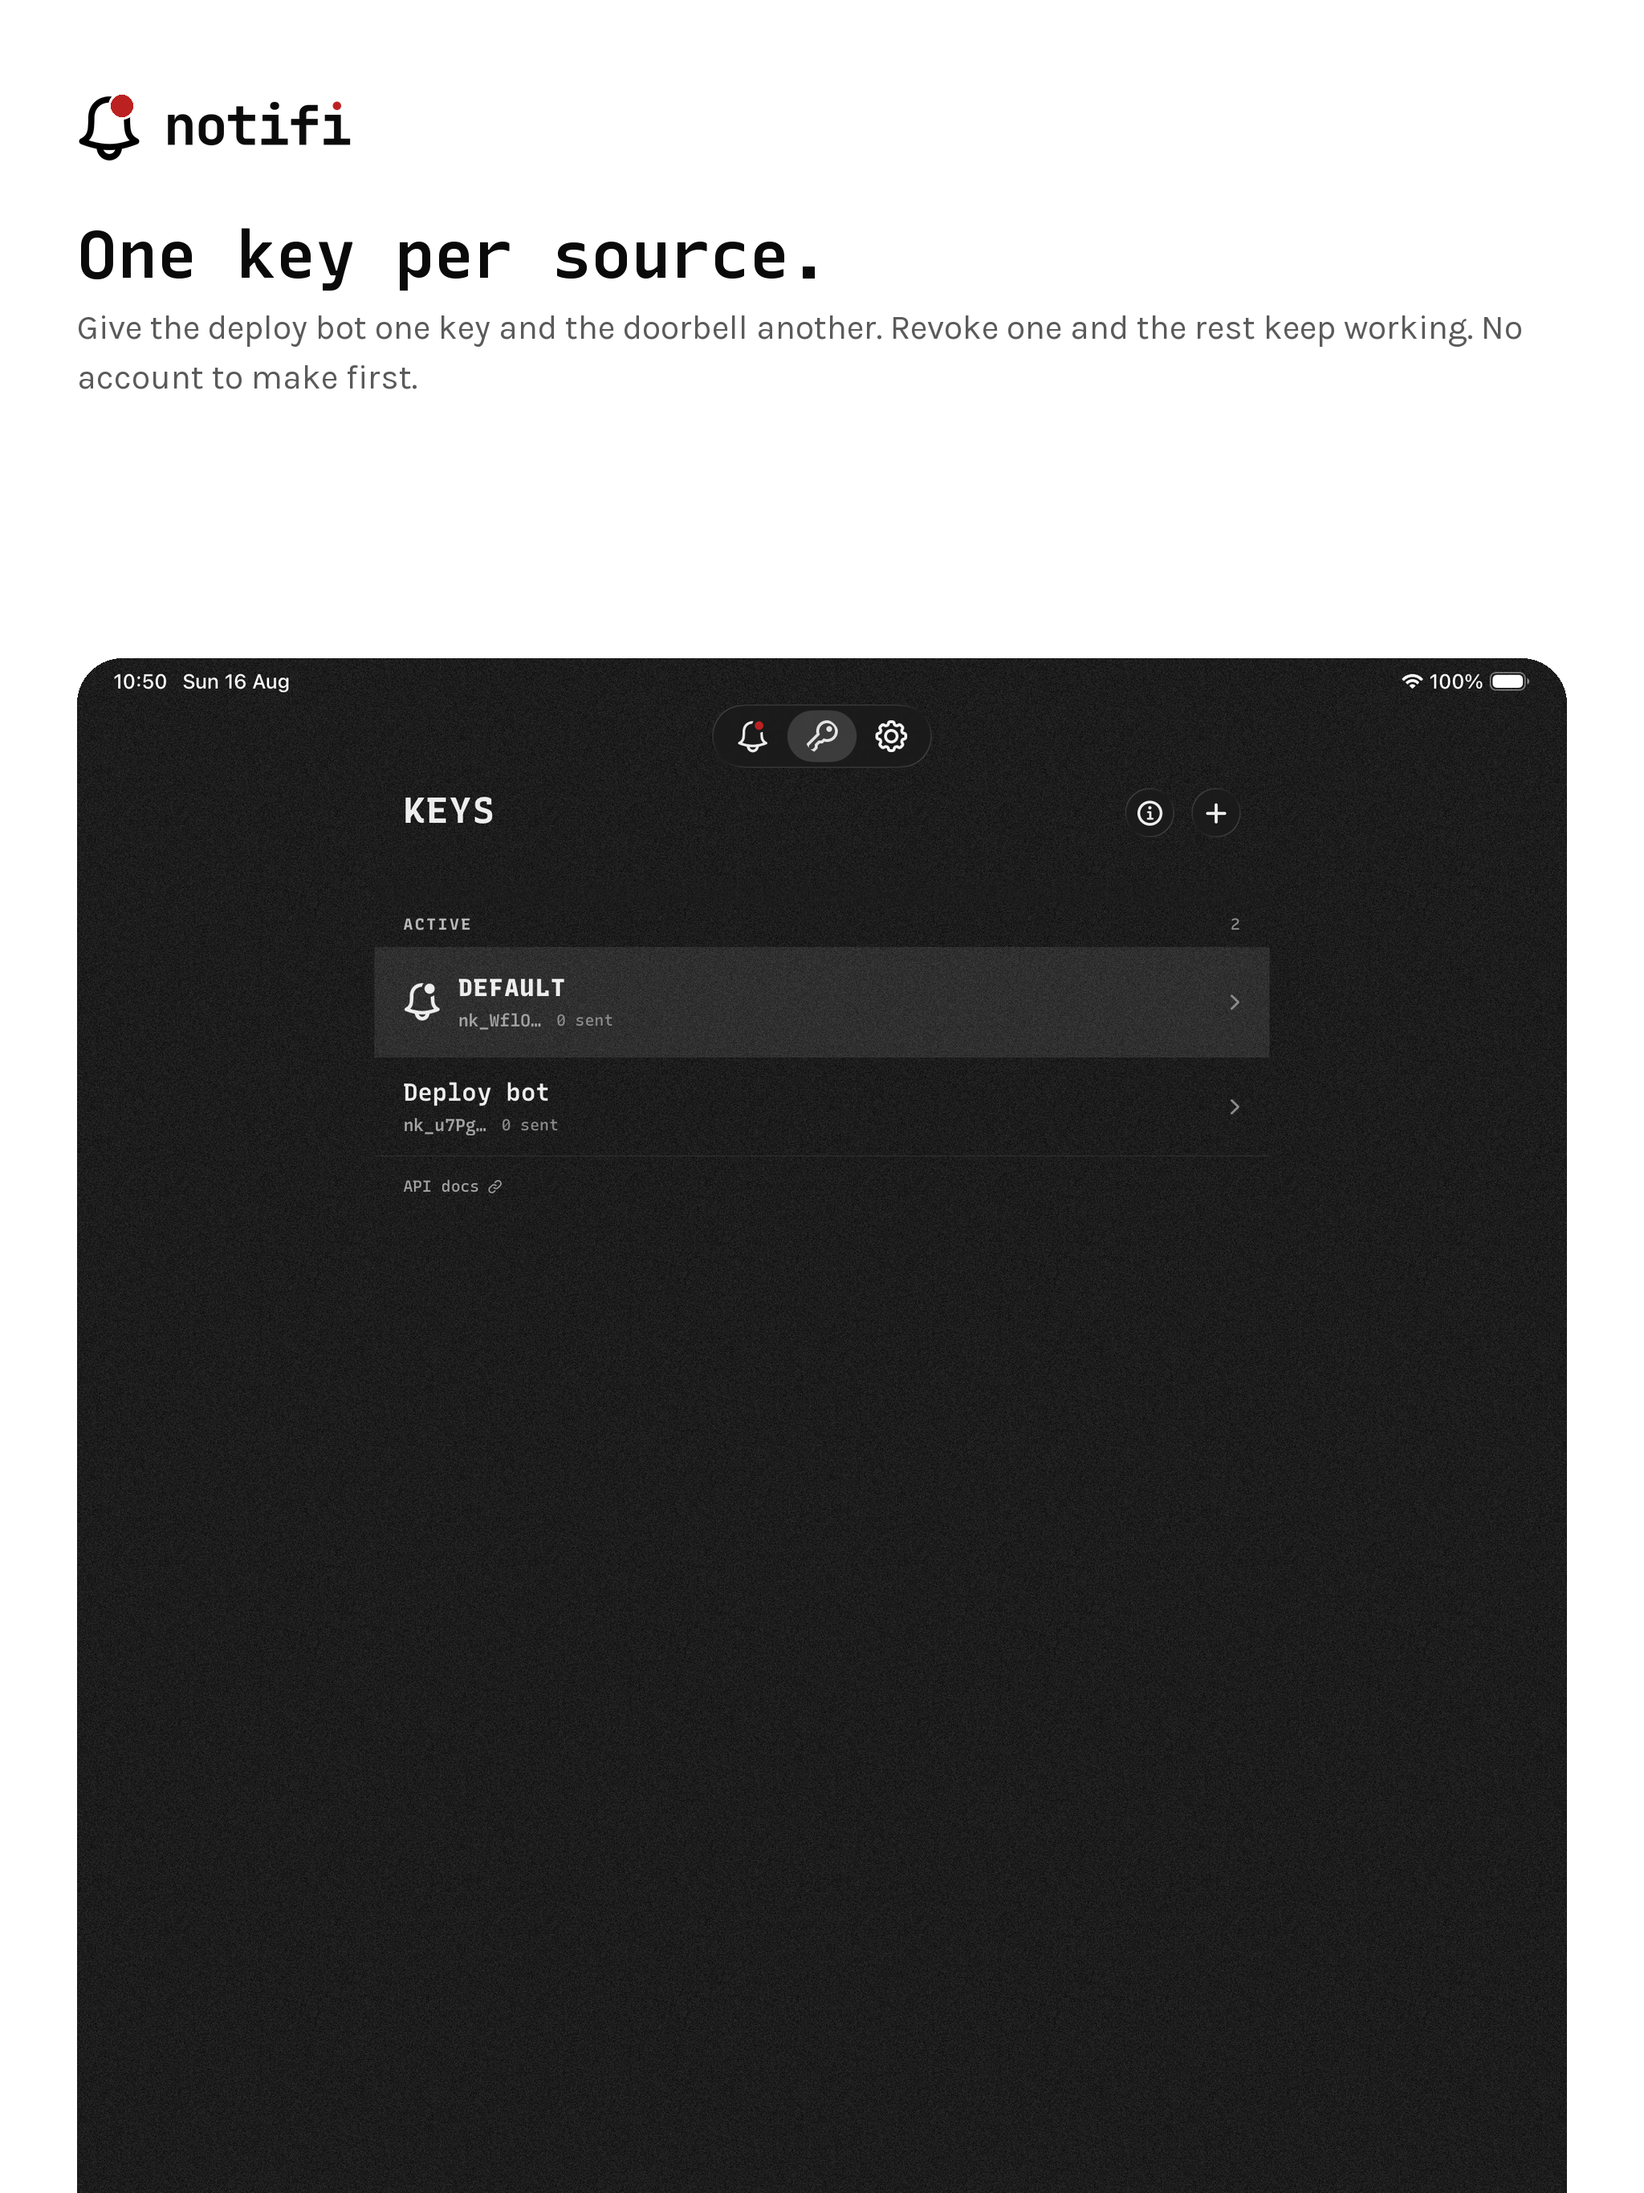
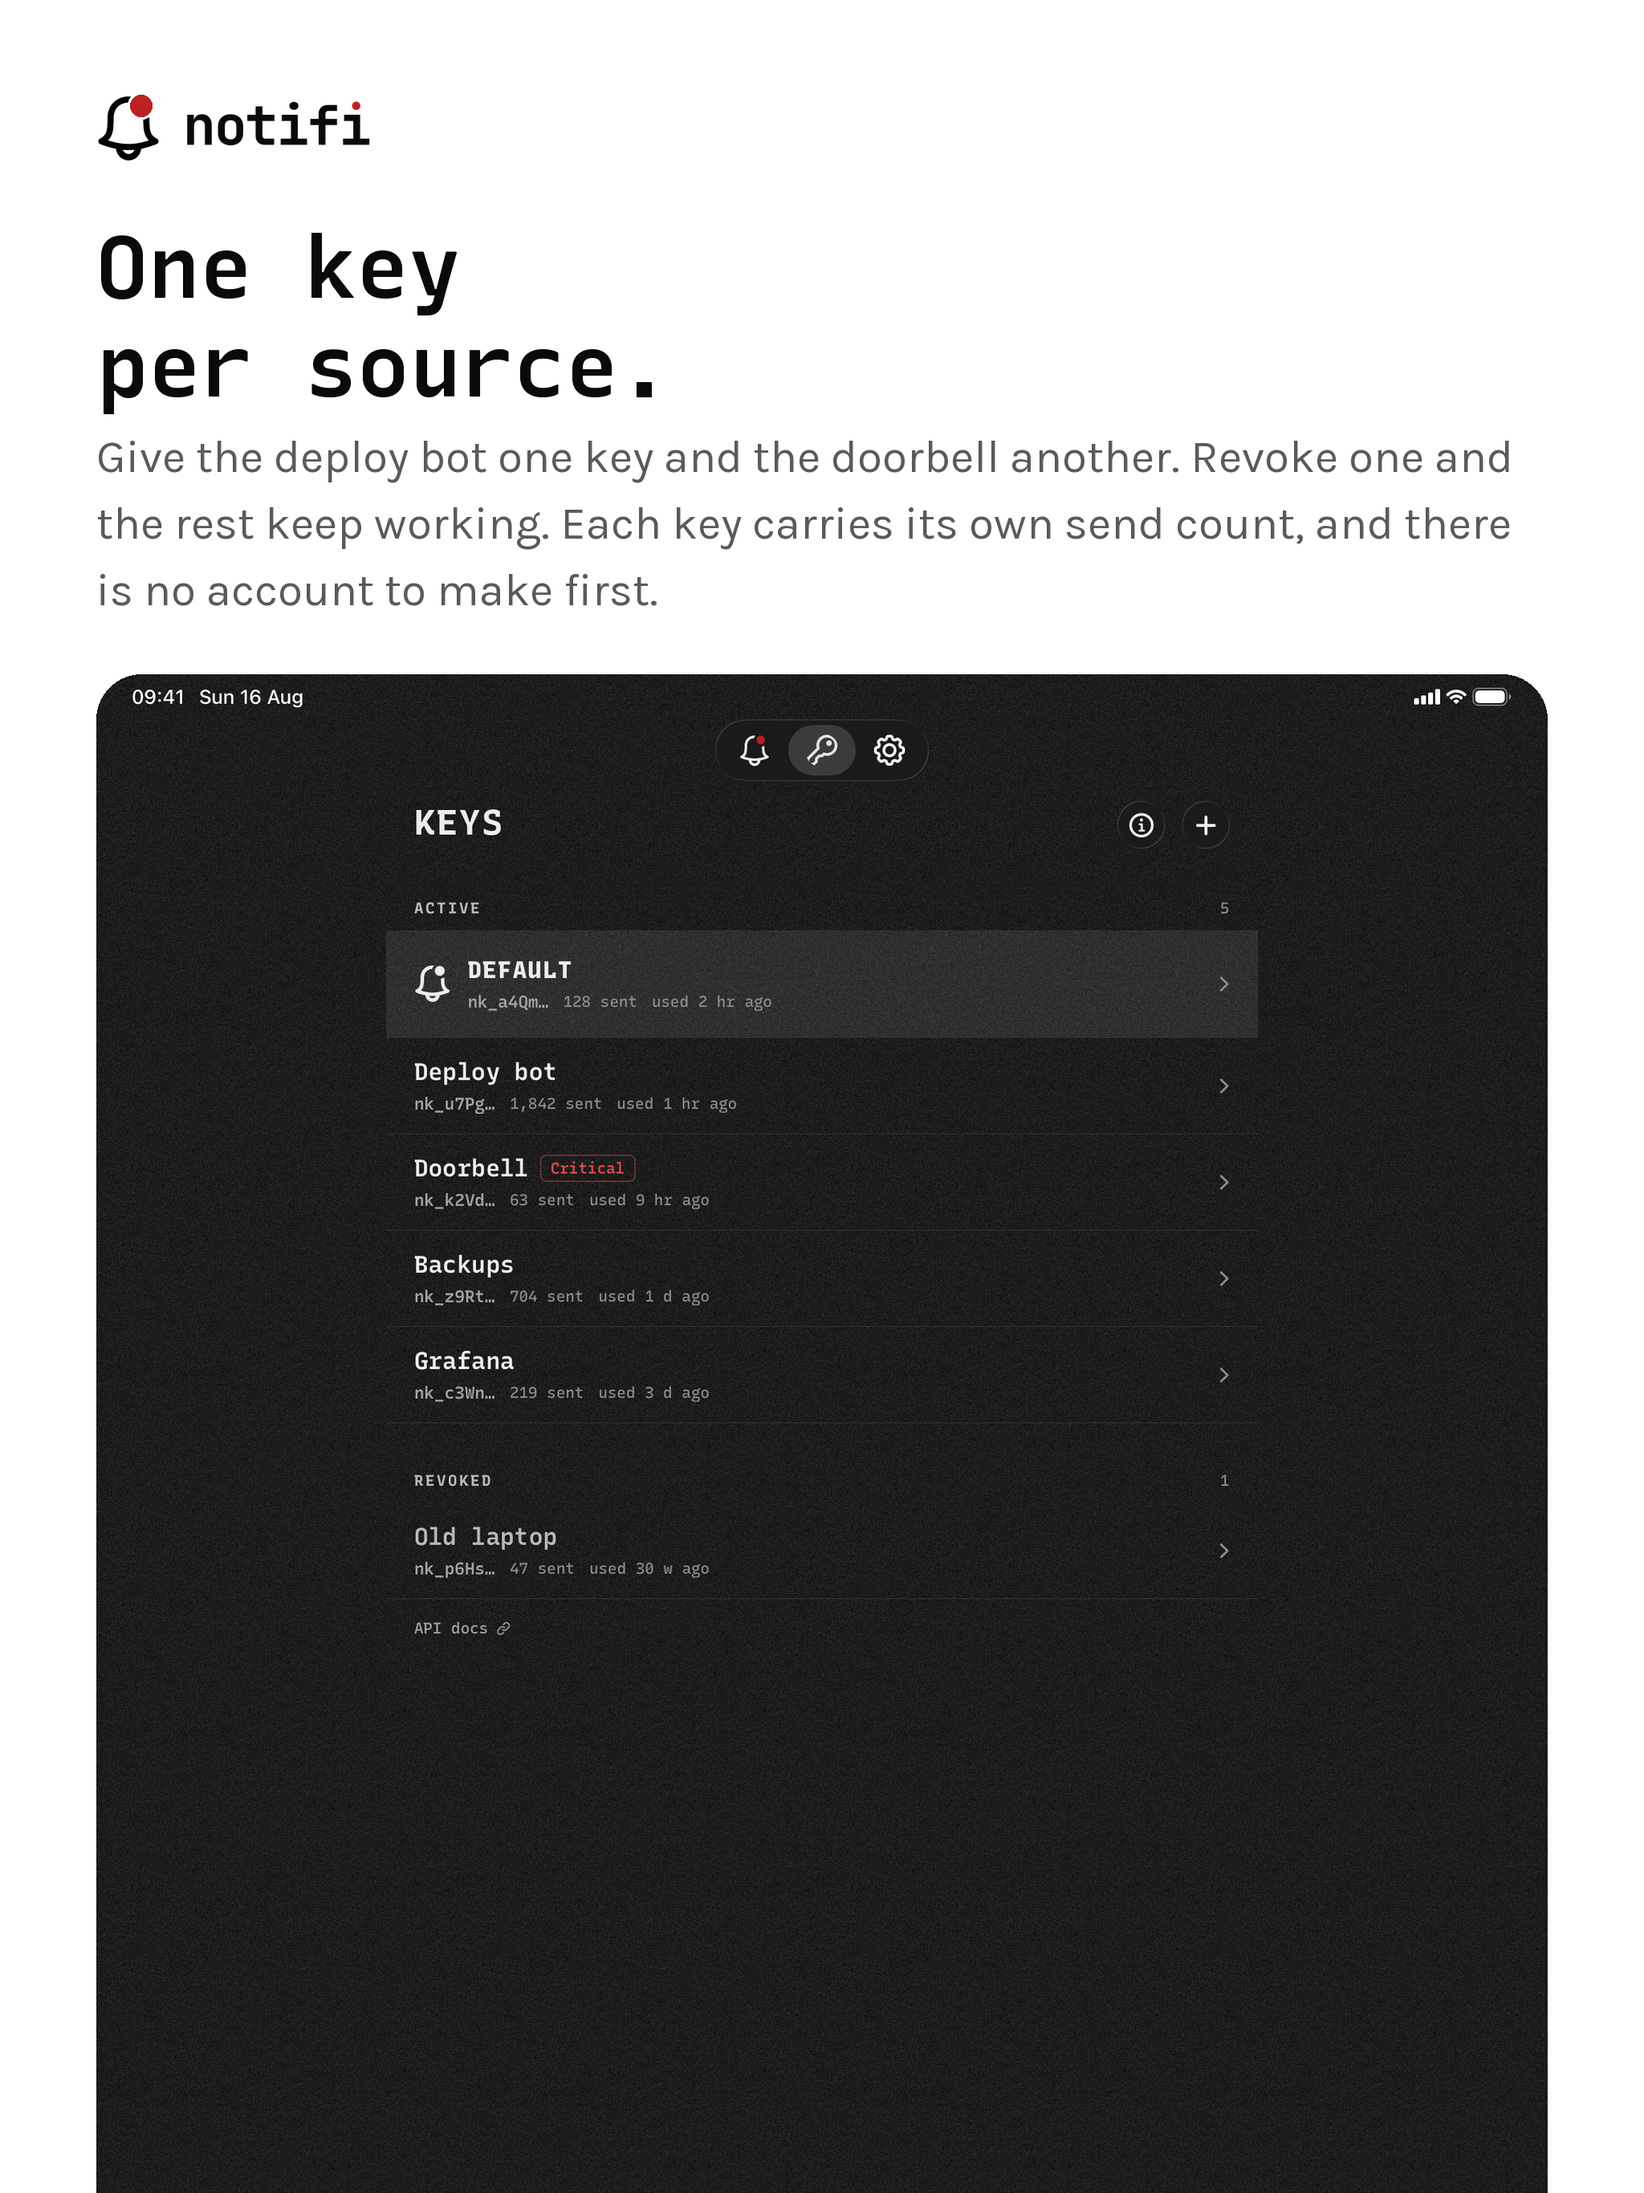
Tighten the tab headers and rebuild the App Store frames (#191)
* Reshoot the screens after the message head changed

The website's detail shot and both App Store sets still showed the bordered
key chip and the two-line timestamp. Pillow was missing locally, which is why
these did not land with the change itself.

* Tighten the tab headers and rebuild the App Store frames

The gap between a screen's title and its first section label was 40pt of
shared geometry doing nothing: the header block's own bottom padding plus
the top fade the scroll content is inset by. Both come down, so all three
tabs move together rather than one screen growing a compensating offset.

The App Store set had four separate problems.

screens.sh captured the phone half on whatever simulator happened to be
booted. That was a 6.3" device, so the frame upscaled its capture onto the
6.9" canvas and the status-bar strip, keyed on exact sizes, missed it
entirely. It now creates and owns notifi-shots-iPhone alongside the iPad it
already owned, and overrides both status bars to 09:41 — without that the
three frames sit side by side on the listing showing three different times.

The strip itself is gone. Cutting the bar and lifting the screen put the
title flush against the device's top edge; filling the gap with ground read
as a mistake. Apps that crop the bar draw a bezel to stand in for the
device's inset, and these frames have none, so the bar stays.

The iPad lockup was drawn at the phone's scale on a canvas 758px wider,
[…]

diff --git a/apps/app/Shared/Support/SampleData.swift b/apps/app/Shared/Support/SampleData.swift
@@ -10,6 +10,39 @@ enum SampleData {
 
     static let idFloor = -10_000
 
+    static var usesSampleKeys: Bool {
+        ProcessInfo.processInfo.environment["NOTIFI_SEED_SAMPLE"] == "1"
+    }
+
+    static var keys: [CachedKey] {
+        let now = Int(Date().timeIntervalSince1970)
+        func days(_ count: Int) -> Int { now - count * 86_400 }
+        func hours(_ count: Int) -> Int { now - count * 3_600 }
+
+        let rows: [(String, String, Int, Int, Int?, Int?, Bool)] = [
+            ("Default", "nk_a4Qm", 128, days(420), hours(2), nil, false),
+            ("Deploy bot", "nk_u7Pg", 1_842, days(310), hours(1), nil, false),
+            ("Doorbell", "nk_k2Vd", 63, days(96), hours(9), nil, true),
+            ("Backups", "nk_z9Rt", 704, days(88), days(1), nil, false),
+            ("Grafana", "nk_c3Wn", 219, days(54), days(3), nil, false),
+            ("Old laptop", "nk_p6Hs", 47, days(500), days(212), days(210), false),
+        ]
+
+        return rows.enumerated().map { index, row in
+            let (name, prefix, sent, created, lastUsed, revoked, critical) = row
+            return CachedKey(
+                id: idFloor - index,
+                name: name,
+                prefix: prefix,
+                sentCount: sent,
+                createdAt: created,
+                lastUsedAt: lastUsed,
+                revokedAt: revoked,
+                isCriticalFlag: critical
+            )
+        }
+    }
+
     static var launchMessageIndex: Int? {
         ProcessInfo.processInfo.environment["NOTIFI_START_MESSAGE"].flatMap(Int.init)
     }

diff --git a/apps/app/Shared/Store/SyncEngine.swift b/apps/app/Shared/Store/SyncEngine.swift
@@ -247,6 +247,15 @@ final class SyncEngine {
 
     func refreshKeys() async {
         do {
+            #if DEBUG
+            if SampleData.usesSampleKeys {
+                keys = SampleData.keys
+                keysRefreshFailed = false
+                KeyCacheStore.save(keys)
+                NotificationCategories.register(keys: Self.summaryKeys(keys))
+                return
+            }
+            #endif
             let response = try await api.listKeys()
             var built: [CachedKey] = []
             for summary in response.keys {

diff --git a/apps/app/Shared/Support/Theme.swift b/apps/app/Shared/Support/Theme.swift
@@ -97,7 +97,7 @@ enum Theme {
 
     static let bottomFade: CGFloat = 44
 
-    static let topFade: CGFloat = 24
+    static let topFade: CGFloat = 14
 
     #if os(macOS)
     static let contentTop: CGFloat = firstBlockTop
@@ -156,9 +156,9 @@ extension View {
 
     func geistPageHeader() -> some View {
         #if os(macOS)
-        padding(.top, 18).padding(.bottom, 14)
+        padding(.top, 18).padding(.bottom, 6)
         #else
-        padding(.top, 4).padding(.bottom, 14)
+        padding(.top, 4).padding(.bottom, 6)
         #endif
     }
 

diff --git a/apps/app/Scripts/appstore-frames.py b/apps/app/Scripts/appstore-frames.py
@@ -60,12 +60,14 @@ GUTTER = 96
 TOP = 268
 # Fixed, not text-relative: the three frames sit side by side on the listing,
 # and a device that starts at a different height on each reads as a mistake.
-DEVICE_TOP = 780
-TITLE_SIZE, DESC_SIZE = 82, 42
+DEVICE_TOP = 820
+TITLE_SIZE, DESC_SIZE = 82, 45
 if os.environ.get("IPAD"):
-    # Wider canvas, same lockup scale; the device shot is near-square so it
-    # starts a little higher to keep a comparable bleed.
-    DEVICE_TOP = 820
+    # Wider canvas, so the lockup scales with it; the device shot is near-square
+    # so it starts a little higher to keep a comparable bleed.
+    GUTTER = 120
+    TITLE_SIZE, DESC_SIZE = 108, 56
+    DEVICE_TOP = 840
 
 # The wordmark is an SVG of outlined glyphs; rasterise it once at the size used.
 # Its letterforms are #EDEDED for a black page; on this white one they have to
@@ -176,6 +178,11 @@ def frame(shot_name, title, desc, out_name):
 
     # ── the device, bled off the bottom
     shot = Image.open(f"{SHOTS}/{shot_name}").convert("RGB")
+
+    # The status bar stays. Cutting it left the title flush against the top
+    # edge, and filling the gap with ground read as a mistake — a frame without
+    # a drawn bezel has nothing else to stand in for the device's own inset.
+    # screens.sh overrides it to 09:41 first, so it is the same on every shot.
     target_w = W - GUTTER * 2
     shot = shot.resize(
         (target_w, round(shot.height * target_w / shot.width)), Image.LANCZOS
@@ -188,20 +195,22 @@ def frame(shot_name, title, desc, out_name):
 
 frame("inbox.png",
       "One request.\nStraight to your pocket.",
-      "One HTTP request to notifi.it and it arrives a moment later. "
-      "No SDK and no dependency.",
+      "Push notifications for your scripts and servers. One HTTP request to "
+      "notifi.it and it arrives a moment later. No account, no SDK.",
       "01_inbox.png")
 
 frame("detail.png",
-      "Markdown, rendered.",
-      "Headings, lists, quotes and code blocks. Attach an image and a link, "
-      "and the whole thing arrives as one push.",
+      "Images, links,\nMarkdown.",
+      "A title, a body, an image and a link. Headings, lists, quotes and code "
+      "blocks are rendered on the device. Encrypted with your public key, so "
+      "we cannot read your messages.",
       "02_message.png")
 
 frame("keys.png",
-      "One key per source.",
-      "Give the deploy bot one key and the doorbell another. Revoke one and the "
-      "rest keep working. No account to make first.",
+      "One key\nper source.",
+      "Give the deploy bot one key and the doorbell another. Revoke one and "
+      "the rest keep working. Each key carries its own send count, and there "
+      "is no account to make first.",
       "03_keys.png")
 
 for tmp in (WORDMARK, WORDMARK_SVG, BELL, MONO, SANS):
